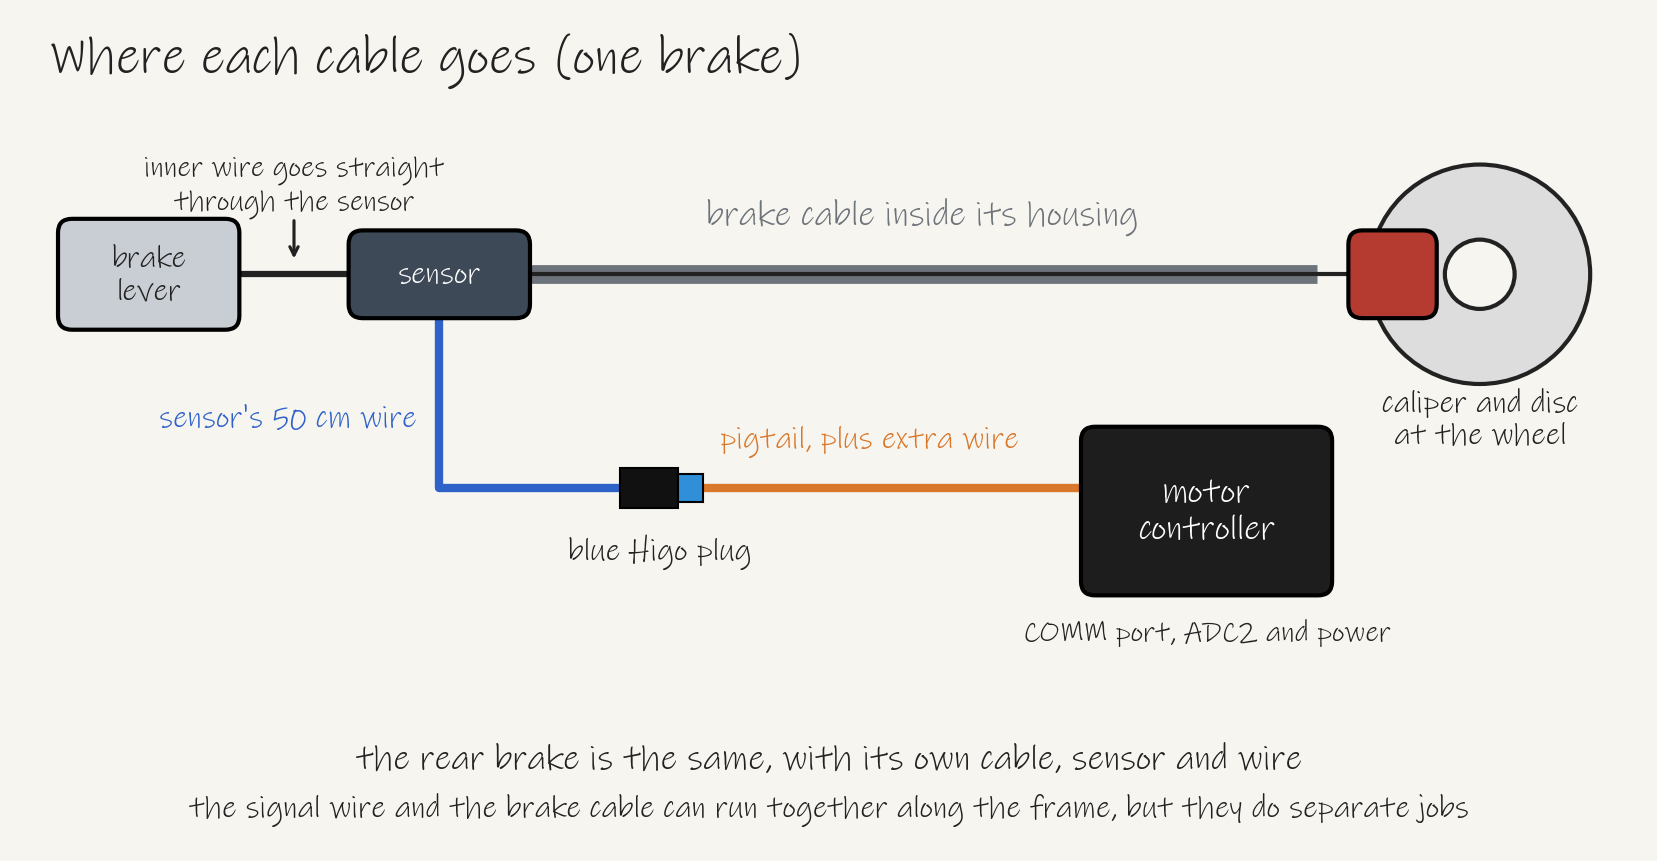
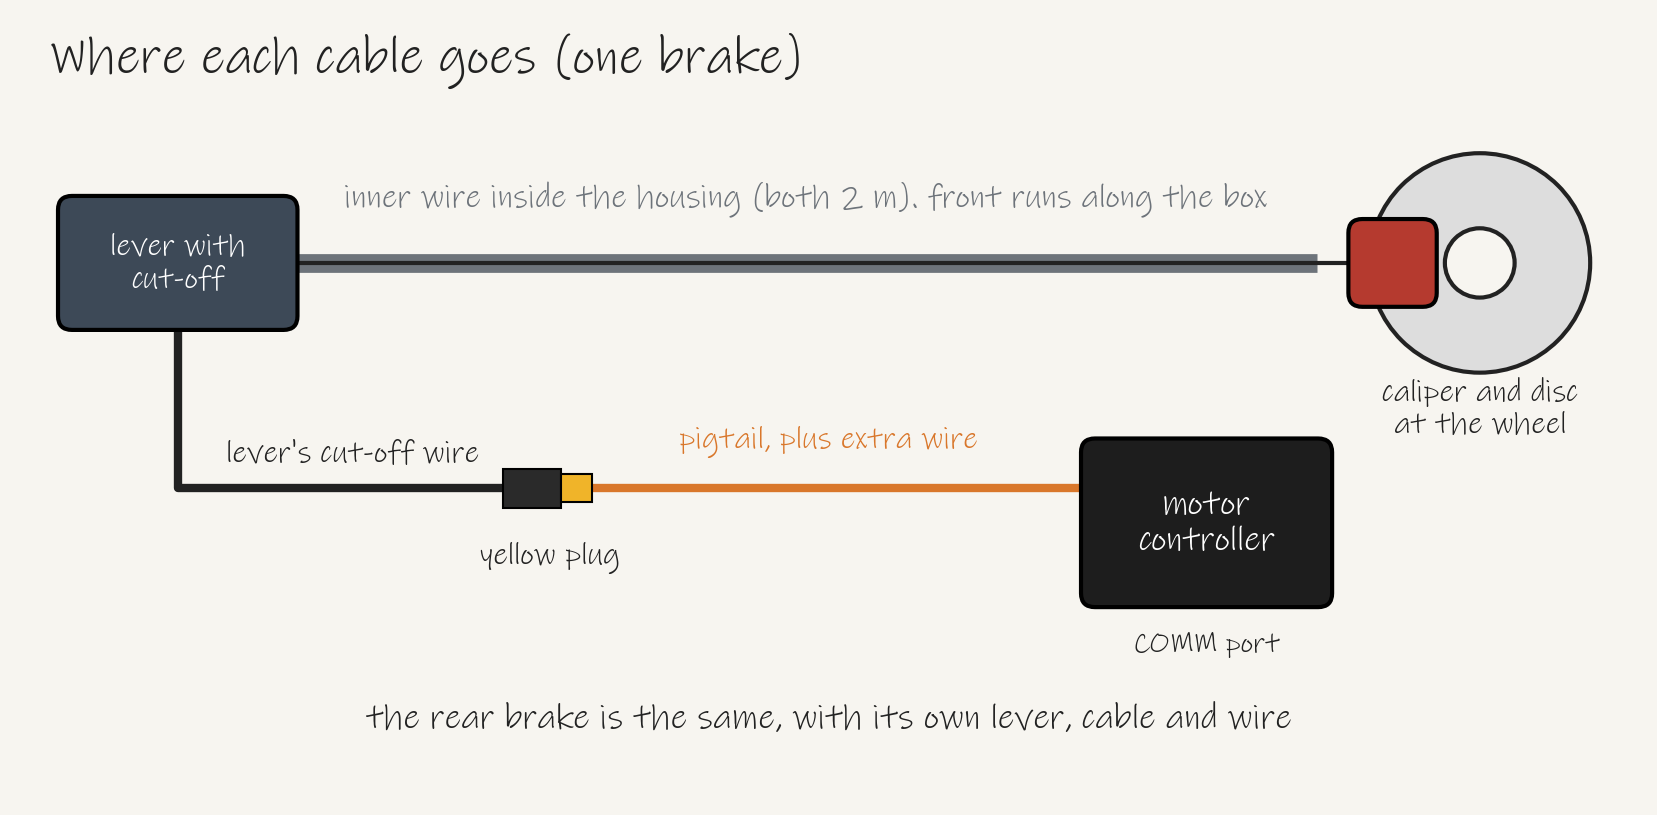
Update the brake cut-off plan for the bay levers

diff --git a/electrical/brake-cutoff.md b/electrical/brake-cutoff.md
@@ -1,89 +1,97 @@
 # Brake motor cut-off
 
-This page explains how the motor stops when someone pulls a brake lever, what to buy, how to wire it and how to test it. It goes with [#40](https://github.com/Electrium-Mobility/Bakfiets-F26/issues/40). Prices were read in November 2026.
+This page explains how the motor stops when someone pulls a brake lever, which parts we're using, how to wire it and how to test it. It goes with [#40](https://github.com/Electrium-Mobility/Bakfiets-F26/issues/40). Updated 7 Nov 2026 after checking Electrium's spare parts in the bay.
 
-This is a plan, and the circuit hasn't been built yet. The sensor's wiring still has to be confirmed, so do step 1 of the build before connecting anything.
+This is a plan, and the circuit hasn't been built yet. The motor test on 4 Nov worked, so the controller, VESC Tool and motor are ready for this.
 
-Why we need it: Ontario requires the motor to stop when the brakes are applied ([O. Reg. 369/09](https://www.ontario.ca/laws/regulation/090369), section 3(2)). It has to work before the first ride. The bench test doesn't need it.
+Why we need it: Ontario requires the motor to stop when the brakes are applied ([O. Reg. 369/09](https://www.ontario.ca/laws/regulation/090369), section 3(2)). It has to work before the first ride.
 
-Why it needs extra parts: the levers we're ordering, a Tektro RS360A pair, are plain mechanical levers with no switch inside. Store-bought e-bikes usually have a switch built into the lever and a brake plug on the controller. Our VESC motor controller has no brake plug, so we add a sensor to each brake and wire it to one of the controller's input pins.
+The bay has a lever with a cut-off built in. A switch or sensor inside the lever sends a signal down the thin wire whenever the lever is pulled, the same way store-bought e-bikes do it. We use that signal to stop the motor.
 
-How it works: pulling a brake closes a switch, which connects 3.3 V to a signal wire. That wire goes to ADC2, an input pin on the controller's COMM port. The VESC firmware has a kill switch setting called ADC2 High, which stops the motor whenever ADC2 is above 1.65 V ([firmware source](https://github.com/vedderb/bldc/blob/master/timeout.c)). When the brake is released, a 10k resistor pulls the signal back to 0 V and the motor can run again.
+![Black lever with a thin cut-off wire ending in a yellow plug](photos/brake-parts-2026-11/1-lever-with-cutoff.jpg)
 
-![Brake cut-off wiring: controller 3.3 V through two sensors to a signal wire, which goes to ADC2 and later the ESP32, with a 10k resistor to ground](diagrams/brake-cutoff-wiring.png)
+![The back of the same style of lever](photos/brake-parts-2026-11/2-lever-with-cutoff-back.jpg)
 
-| Brake | Signal wire | Motor |
+The cut-off wire ends in a yellow waterproof plug, known as a Higo or Julet plug.
+
+![Close-up of the yellow plug](photos/brake-parts-2026-11/3-yellow-plug.jpg)
+
+The rest of the parts from the bay are below. The plain levers have no cut-off, so they're only a backup.
+
+![Two plain levers marked POWER, with no cut-off wire](photos/brake-parts-2026-11/4-plain-levers.jpg)
+
+![Black brake housing, 2 m](photos/brake-parts-2026-11/5-housing.jpg)
+
+![Inner brake wire, 2 m](photos/brake-parts-2026-11/6-inner-wire.jpg)
+
+![Bag of ferrules, end caps and red cable protectors](photos/brake-parts-2026-11/7-small-parts.jpg)
+
+Each brake uses one lever, one 2 m inner wire and one 2 m length of housing. The front line now runs along the box instead of along the frame, which is shorter than the 228 cm route we measured before. Measure both routes with a string, with the handlebars turned fully each way. The housing has to fit the route with some slack, and the inner wire has to be longer than the housing so it can reach the caliper.
+
+There are two separate lines at each brake. The inner wire and housing stop the wheel. The cut-off wire stops the motor.
+
+![Route of the inner wire and housing from the lever to the caliper, and the cut-off wire through the yellow plug and a pigtail to the motor controller](diagrams/brake-sensor-route.png)
+
+The cut-off wire is short, so it needs a pigtail, which is a short cable with the other half of the yellow plug, plus extra wire to reach the controller. Include this in the wiring harness ([#20](https://github.com/Electrium-Mobility/Bakfiets-F26/issues/20)).
+
+The first job is finding out what kind of signal the lever sends. Look inside the yellow plug and count the pins, then test it with a multimeter.
+
+![A multimeter on continuity mode connected to the pins of the yellow plug](diagrams/brake-plug-test.png)
+
+| Result | What it means | What to do |
 | --- | --- | --- |
-| Both released | 0 V | Can run |
-| Either pulled | 3.3 V | Stops |
+| Two pins, and the meter beeps only when the lever is pulled | Plain switch that closes when you brake | Use the wiring below |
+| Two pins, and the meter stops beeping when the lever is pulled | Plain switch that opens when you brake | Use the wiring below with Kill Switch Mode set to ADC2 Low. A broken wire then stops the motor too |
+| Three pins, and the meter never beeps | Powered sensor | Find the power, ground and signal wires, give it 3.3 V and measure the signal. Set ADC2 High if the signal goes up when you brake, or ADC2 Low if it goes down. The signal must stay at or below 3.3 V |
 
-The two sensors are wired side by side, so either brake sets it off. The 10k resistor is required. An unconnected ADC2 can float to a random voltage, and [one builder measured 1.2 V](https://foil.zone/t/magnet-operated-kill-switch/15715/25), which is close to the 1.65 V trigger.
+Here's how the plain switch case works. Pulling a brake connects 3.3 V to a signal wire, which goes to ADC2, an input pin on the controller's COMM port. The VESC firmware has a kill switch setting called ADC2 High, which stops the motor whenever ADC2 is above 1.65 V ([firmware source](https://github.com/vedderb/bldc/blob/master/timeout.c)). When the lever is released, a 10k resistor pulls the signal back to 0 V.
 
-There are two separate cables at each brake. The brake cable runs from the lever, through the sensor and inside its housing to the caliper, and it stops the wheel the same way it would without the sensor. The sensor's own wire carries the signal to the controller, and it stops the motor.
+![Wiring: controller 3.3 V through two levers to a signal wire, which goes to ADC2 and later the ESP32, with a 10k resistor to ground](diagrams/brake-cutoff-wiring.png)
 
-![Route of the brake cable from the lever through the sensor to the caliper, and the sensor wire through a Higo plug and pigtail to the motor controller](diagrams/brake-sensor-route.png)
+The 10k resistor is required. An unconnected ADC2 can float to a random voltage, and [one builder measured 1.2 V](https://foil.zone/t/magnet-operated-kill-switch/15715/25), which is close to the 1.65 V trigger.
 
-What to buy:
-
-| Part | Qty | Cost | Notes |
-| --- | --- | --- | --- |
-| [Grin Inline Cable Cutoff Sensor, 4-pin Higo](https://ebikes.ca/inline-cable-cutoff-sensor.html) | 2 | CA$21 each + shipping | Made for standard mechanical levers. The cable passes through it, so the housing may need to be cut shorter |
-| 4-pin female Higo pigtail, the short cable that mates with the sensor's plug | 2 | Not picked yet | Check the plug genders match before buying |
-| 10k resistor | 1 | Check the bay | |
-| Thin wire and a plug for the COMM port | 1 set | Check the bay | The plug type depends on the controller model |
-
-The sensor's wire is 50 cm and ends in a blue Higo plug. A Higo plug is a small waterproof round connector common on e-bikes. The controller will be further than 50 cm from the handlebars, so the pigtail side needs extra wire. Measure this once the controller's position on the frame is known, and include it in the wiring harness ([#20](https://github.com/Electrium-Mobility/Bakfiets-F26/issues/20)).
-
-Before building, we need two things from VESC Tool:
-
-- The controller's model, which tells us where 3.3 V, ADC2 and GND are on the COMM port ([#38](https://github.com/Electrium-Mobility/Bakfiets-F26/issues/38)).
-- The firmware version. The kill switch was [added in June 2021](https://github.com/vedderb/bldc/commits/master/timeout.c), so older firmware needs updating first.
+Before building, read the controller's model and firmware version in VESC Tool and post them on [#38](https://github.com/Electrium-Mobility/Bakfiets-F26/issues/38). The model tells us where 3.3 V, ADC2 and GND are on the COMM port. The kill switch was [added to the firmware in June 2021](https://github.com/vedderb/bldc/commits/master/timeout.c), so older firmware needs updating first.
 
 Build it on a breadboard first, with the battery unplugged whenever you change a wire.
 
-1. Confirm the sensor is a plain switch. Grin doesn't publish the pinout. Email info@ebikes.ca, or set a multimeter to continuity and find the two pins on the plug that connect only when the sensor is triggered. If no pair of pins does this, the sensor needs power and has its own output, so stop here and measure that output before connecting it. It must stay at or below 3.3 V.
-2. Connect one sensor using the table below, and leave the ESP32 and second sensor off for now.
-3. Check with a multimeter that the signal row reads 0 V, then 3.3 V when the sensor is triggered.
-4. Power up, connect VESC Tool and watch the ADC2 voltage in its live data while triggering the sensor.
-5. In App Settings, set Kill Switch Mode to ADC2 High and write the configuration. Menu names can vary a little between versions.
-6. With the back wheel lifted and the current limits low, spin the motor and trigger the sensor. The motor should stop, and it should only restart once the sensor is released.
-7. Add the second sensor and repeat step 6 with each brake.
-8. Add the ESP32 and read the signal for the brake light (see below).
+1. Test the main idea with a 10k resistor and a jumper wire in place of the lever. Connect the resistor from ADC2 to GND, then set Kill Switch Mode to ADC2 High in App Settings. With the back wheel lifted and the current limits low, spin the motor and connect 3.3 V to ADC2. The motor should stop, and restart only once the wire is removed.
+2. Test the yellow plug using the picture above.
+3. Connect one lever using the table below.
+4. Check with a multimeter that the signal row reads 0 V, then 3.3 V when the lever is pulled. Watch the same change on the ADC2 voltage in VESC Tool.
+5. Repeat the motor test from step 1 using the lever.
+6. Add the second lever and test each brake.
+7. Add the ESP32 for the brake light.
 
 | From | To |
 | --- | --- |
 | Controller 3.3 V | Red breadboard rail |
 | Controller GND | Blue breadboard rail |
-| Front sensor, switch pin 1 | Red rail |
-| Front sensor, switch pin 2 | Signal row |
-| Rear sensor, switch pin 1 | Red rail |
-| Rear sensor, switch pin 2 | Signal row |
+| Front lever, pin 1 | Red rail |
+| Front lever, pin 2 | Signal row |
+| Rear lever, pin 1 | Red rail |
+| Rear lever, pin 2 | Signal row |
 | 10k resistor | Signal row to blue rail |
 | Signal row | Controller ADC2 |
-| ESP32 GND (step 8) | Blue rail |
-| Signal row (step 8) | ESP32 input pin, through a 1k resistor |
+| ESP32 GND (step 7) | Blue rail |
+| Signal row (step 7) | ESP32 input pin, through a 1k resistor |
 
 Breadboards are for the bench only, because jumper wires can shake loose on a bike. Once it works, move the circuit to perfboard with screw terminals.
 
-The ESP32 only reads the signal for the brake light. The signal is 0 V or 3.3 V, so it's safe for the ESP32-S3, whose pins aren't rated for 5 V. The 1k resistor protects the pin if the ESP32 is off while the controller is on. The cut-off doesn't depend on the ESP32. The firmware also [ignores commands while the kill switch is active](https://github.com/vedderb/bldc/commits/master/timeout.c), so the ESP32 shouldn't be able to restart the motor during braking. Confirm this during testing once the CAN link works.
+The ESP32 only reads the signal for the brake light. The signal is 0 V or 3.3 V, so it's safe for the ESP32-S3, whose pins aren't rated for 5 V. The 1k resistor protects the pin if the ESP32 is off while the controller is on. The cut-off doesn't depend on the ESP32, and the firmware [ignores commands while the kill switch is active](https://github.com/vedderb/bldc/commits/master/timeout.c). Confirm that during testing once the CAN link works.
 
-Before every ride, lift the back wheel, spin the motor, and pull each brake to confirm the motor stops. This matters because of how the circuit fails: if a wire breaks or a plug comes loose, the signal stays at 0 V and the motor keeps running when you brake. The brakes themselves still work, but the cut-off doesn't.
+Fit the levers on the bike and check these before the first ride:
 
-A later version can fix this with switches that stay closed until you brake, wired one after the other, with Kill Switch Mode set to ADC2 Low. Then a broken wire stops the motor too. The Grin sensor's switch type decides whether that's possible with these parts.
+- The lever pulls enough cable to clamp the Shimano mechanical caliper firmly before the lever reaches the grip. Linear pull and short pull levers move different amounts of cable, and these levers haven't been tested with our calipers yet.
+- The levers clamp onto our handlebars.
+- With the back wheel lifted, pulling each brake stops the motor. Repeat this check before every ride. If the circuit uses a switch that closes when you brake, a broken wire leaves the motor running, although the brakes still work.
 
-Other options we looked at:
-
-| Option | Why it isn't the first choice |
-| --- | --- |
-| [Grin magnetic sensor](https://ebikes.ca/magnetic-cutoff-hg4.html), CA$21 | Leaves the cable alone, but needs room on the lever, which hasn't been checked on the RS360A |
-| Levers with a built-in switch | Closest to a store-bought e-bike and simple to wire. They have to suit our long-pull Shimano caliper, and we haven't confirmed one that does |
-| Reed switch or microswitch on the lever | Cheapest, but we'd have to design the mount ourselves and make it trigger every time |
-| [Spintend ADC adapter](https://spintend.com/products/ewheel-adc-adapter-v3-for-diy-ebike-escooter-with-vesc), US$36 | Sold out in November 2026. It also overlaps with what the ESP32 is planned to do |
-| ADC2 brake modes in VESC Tool | These are for variable braking, and [forum reports](https://forum.esk8.news/t/analog-throttle-brake-adc2-does-not-cut-power-to-the-throttle-what-is-wrong/8405) say they subtract from the throttle without fully cutting it |
+If we can't find a second lever with a cut-off, the second brake can use a plain lever with a [Grin inline sensor](https://ebikes.ca/inline-cable-cutoff-sensor.html), CA$21, wired the same way once we confirm its signal.
 
 Still open:
 
+- How many levers with a cut-off the bay has. The photos show one, labelled A01-R, and we need two.
+- The number of pins on the yellow plug and what type of signal it sends.
+- Which pigtail fits the yellow plug.
 - The controller's model and COMM pinout ([#38](https://github.com/Electrium-Mobility/Bakfiets-F26/issues/38)).
-- The sensor's pinout and whether it's a plain switch.
-- Which Higo pigtail to buy, and how much extra wire the harness needs.
+- The string measurements for both routes.
 - Which ESP32 input pin to use (firmware).
